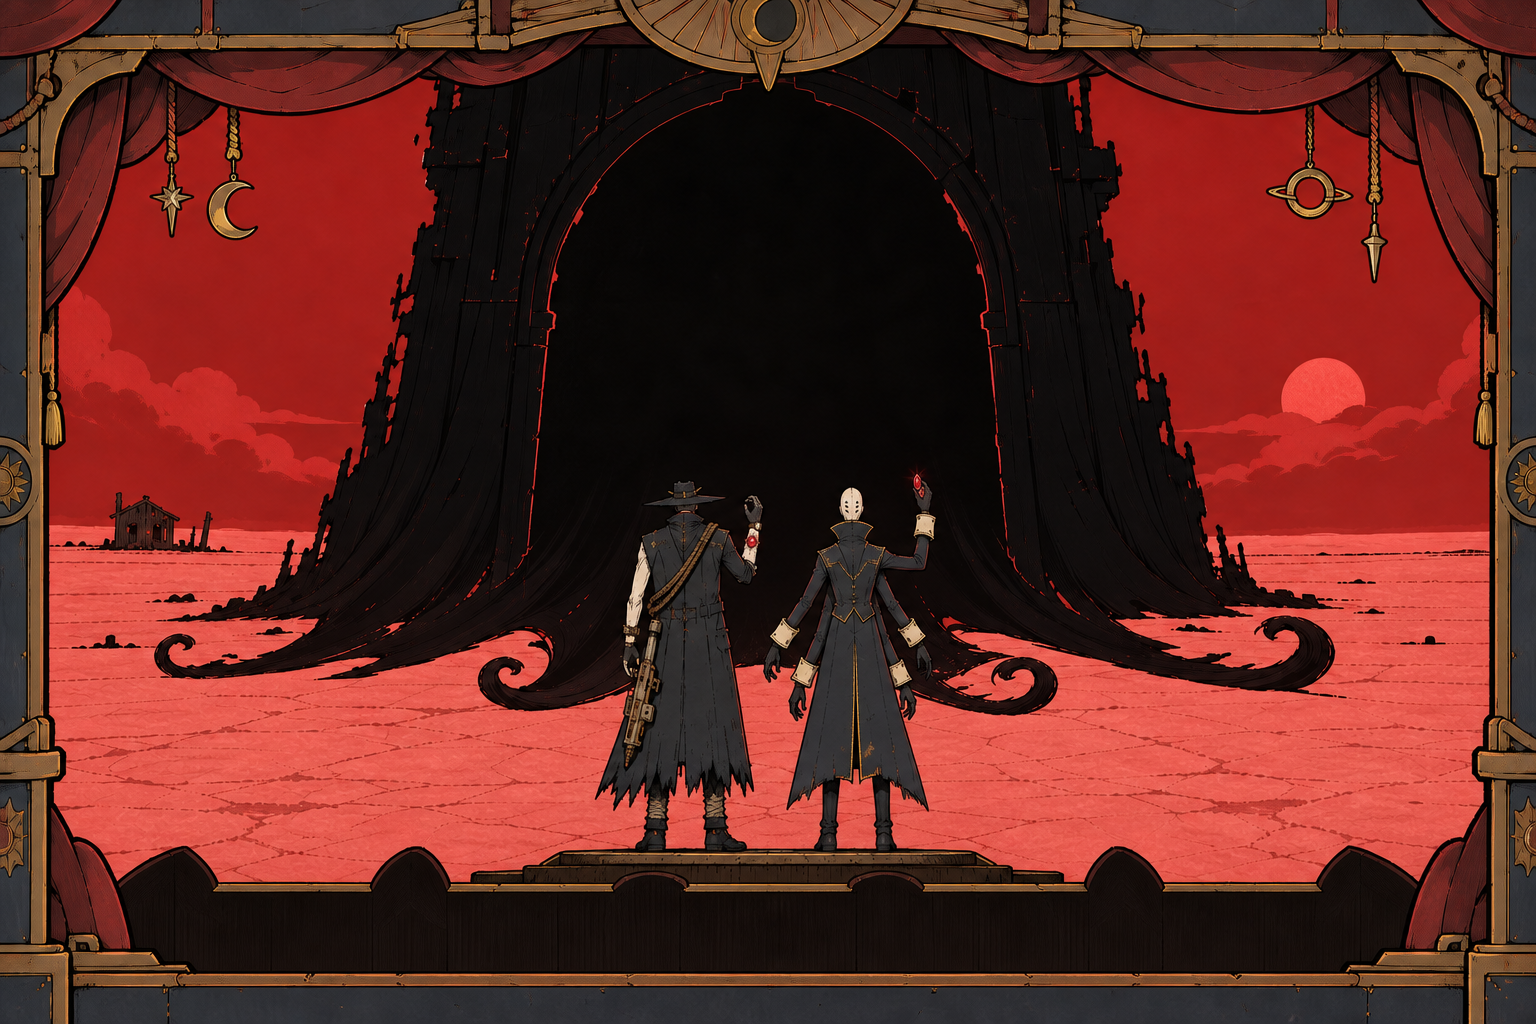
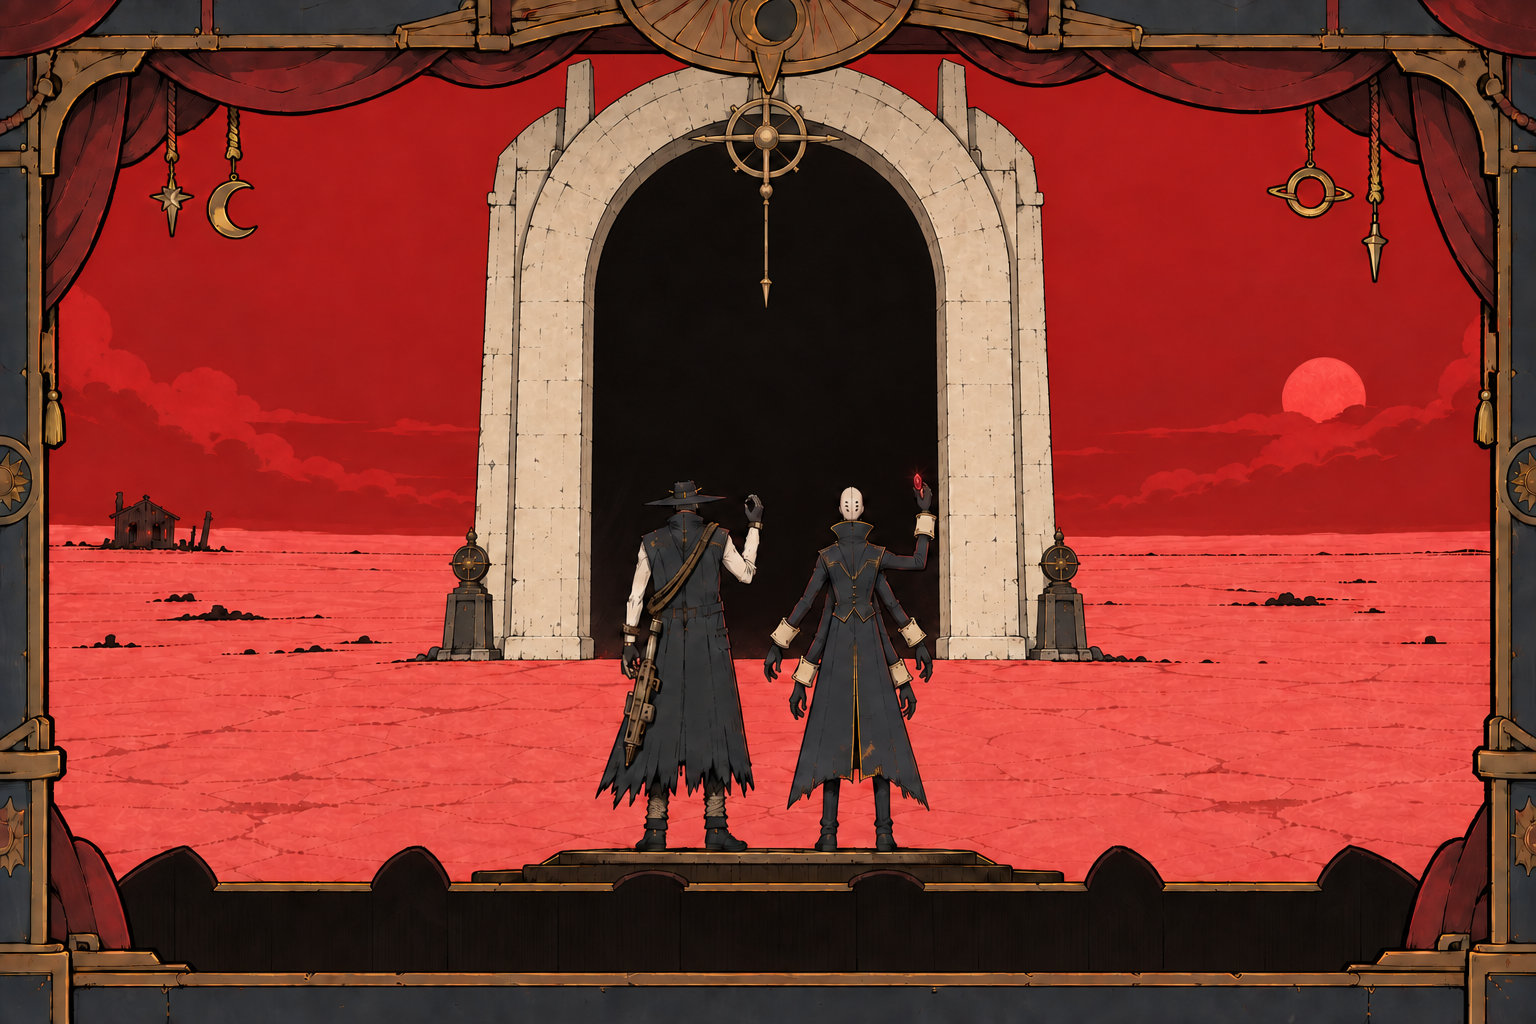
Refine Ord and Gate continuity

diff --git a/app/story-reader.tsx b/app/story-reader.tsx
@@ -330,10 +330,6 @@ export default function StoryReader({
           <div className="scene-counter">
             CH {chapter + 1} · {String(activeScene + 1).padStart(2, '0')}
           </div>
-          <div className="stage-caption" key={visual.label}>
-            <span>{visual.label}</span>
-            <p>{visual.caption}</p>
-          </div>
           <button
             className="character-peek"
             onClick={() => setOverlay('characters')}
